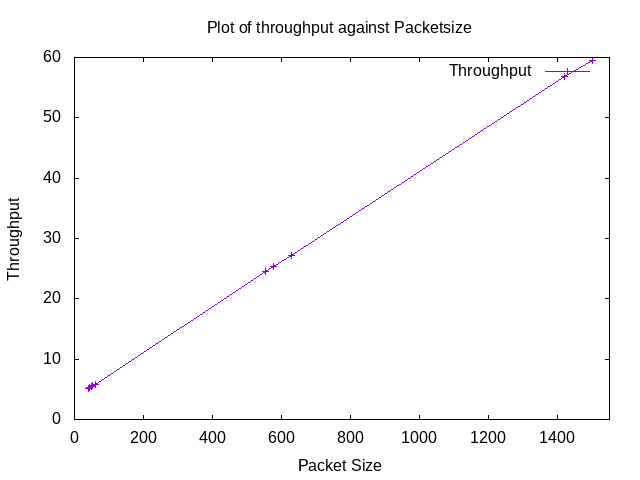
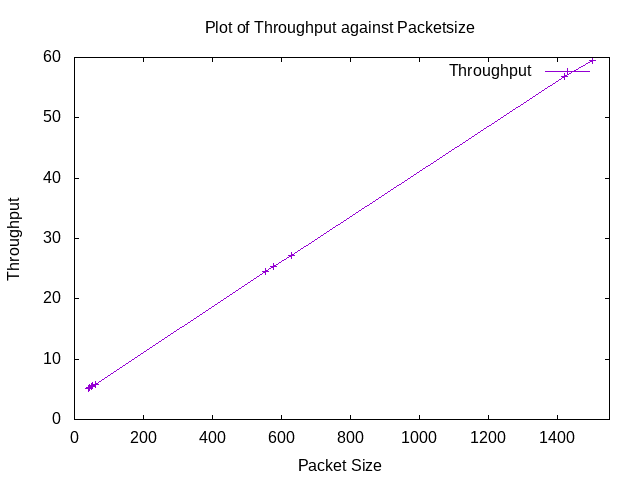
revised edition

Changed region(s): [[0.3125, 0.0312, 0.75, 0.0938]]

diff --git a/wireless.cc b/wireless.cc
@@ -18,37 +18,37 @@ int main (int argc, char *argv[])
   std :: string plotTitle1               = "Plot of TCP Fairness Index against Packet Size";
   std :: string dataTitle1               = "Index Of Fairness ";
 
-  //setting up fairness plot
-  std :: string fairnessFile            = "WirelessFairnessPlot";
-  std :: string fairnessGraphics        = FairnessFile + ".png";
-  std :: string fairnessPlot            = FairnessFile + ".plt";
+  //setting up Fairness plot
+  std :: string FairnessFile            = "WirelessFairnessPlot";
+  std :: string FairnessGraphics        = FairnessFile + ".png";
+  std :: string FairnessPlot            = FairnessFile + ".plt";
     //graphics file is created by plot file when we run Gnuplotto create the final plot in a PNG file.
-  Gnuplot plot1 (fairnessGraphics);
+  Gnuplot plot1 (FairnessGraphics);
   plot1.SetTitle (plotTitle1); 
   plot1.SetTerminal ("png");
   plot1.SetLegend ("Packet Size", "Fairness Index");
   plot1.AppendExtra ("set xrange [0:1550]");
   //setting dataset, title of plot, legend and style of plotting.
-  Gnuplot2dDataset fairnessDataset;
-  fairnessDataset.SetTitle (dataTitle1);
-  fairnessDataset.SetStyle (Gnuplot2dDataset::LINES_POINTS);
+  Gnuplot2dDataset FairnessDataset;
+  FairnessDataset.SetTitle (dataTitle1);
+  FairnessDataset.SetStyle (Gnuplot2dDataset::LINES_POINTS);
    //setting up the dataset
-  std :: string plotTitle2               = "Plot of throughput against Packetsize";
+  std :: string plotTitle2               = "Plot of Throughput against Packetsize";
   std :: string dataTitle2               = "Throughput";
 
   //setting up Throughput Plot 
-  std :: string throughputFile           = "WirelessThroughputPlot";
-  std :: string throughputGraphics       = ThroughputFile + ".png";
-  std :: string throughputPlot           = ThroughputFile + ".plt";
-  Gnuplot plot2 (throughputGraphics);
+  std :: string ThroughputFile           = "WirelessThroughputPlot";
+  std :: string ThroughputGraphics       = ThroughputFile + ".png";
+  std :: string ThroughputPlot           = ThroughputFile + ".plt";
+  Gnuplot plot2 (ThroughputGraphics);
   plot2.SetTitle (plotTitle2);
   plot2.SetTerminal ("png");
   plot2.SetLegend ("Packet Size", "Throughput");
   plot2.AppendExtra ("set xrange [0:1550]");
     //setting dataset, title of plot, legend and style of plotting. same as the previous graph.
-  Gnuplot2dDataset throughputDataset;
-  throughputDataset.SetTitle (dataTitle2);
-  throughputDataset.SetStyle (Gnuplot2dDataset::LINES_POINTS);
+  Gnuplot2dDataset ThroughputDataset;
+  ThroughputDataset.SetTitle (dataTitle2);
+  ThroughputDataset.SetStyle (Gnuplot2dDataset::LINES_POINTS);
   //------------------plotting part initialisatoin done--------------
  
   uint32_t packets[10] = {40,44,48,52,60,552,576,628,1420,1500};
@@ -185,7 +185,7 @@ int main (int argc, char *argv[])
     Simulator::Stop (Seconds(11.0));
     Simulator::Run ();
 
-    //Fairness Index and throughput calculation
+    //Fairness Index and Throughput calculation
     double Sumx = 0, SumSqx = 0;
     monitor->CheckForLostPackets ();
     Ptr<Ipv4FlowClassifier> classifier = DynamicCast<Ipv4FlowClassifier> (flowmonitor.GetClassifier ());
@@ -199,24 +199,24 @@ int main (int argc, char *argv[])
       std::cout << "  Received Bytes\t:" << i->second.rxBytes << " bytes\n";
       double time = i->second.timeLastRxPacket.GetSeconds() - i->second.timeFirstTxPacket.GetSeconds();
       std::cout << "  Transmission Time\t:" << time << "s\n";
-      double throughput = ((i->second.rxBytes * 8.0) / time)/1024;
-      std::cout << "  Throughput observed\t:" << throughput  << " Kbps\n\n";
+      double Throughput = ((i->second.rxBytes * 8.0) / time)/1024;
+      std::cout << "  Throughput observed\t:" << Throughput  << " Kbps\n\n";
 
-      Sumx += throughput;
-      SumSqx += throughput * throughput ;
+      Sumx += Throughput;
+      SumSqx += Throughput * Throughput ;
     }
 
     double FairnessIndex = (Sumx * Sumx)/ (2 * SumSqx) ;
     std :: cout << "Average Throughput: \t" << Sumx/2 << " Kbps" << std::endl;
     std :: cout << "FairnessIndex: \t" << FairnessIndex << std :: endl << std::endl;
     std :: cout << "***********************************************************" << std::endl << std::endl;
-    fairnessDataset.Add (packets[j], FairnessIndex);
-    throughputDataset.Add(packets[j],Sumx/2);
+    FairnessDataset.Add (packets[j], FairnessIndex);
+    ThroughputDataset.Add(packets[j],Sumx/2);
     Simulator::Destroy ();
     NS_LOG_INFO ("Complete");
   }
 
-  //plotting  fairness 
+  //plotting  Fairness 
   // Add the dataset to the plot.
   plot1.AddDataset (FairnessDataset);
   // Open the plot file.
@@ -226,7 +226,7 @@ int main (int argc, char *argv[])
   // Close the plot file.
   plotFile1.close ();
 
-  //plotting throughput
+  //plotting Throughput
   // Add the dataset to the plot.
   plot2.AddDataset (ThroughputDataset);
   // Open the plot file.

diff --git a/wired.cc b/wired.cc
@@ -113,18 +113,17 @@ int main(int argc, char *argv[]) {
 	
 	std :: string plotTitle1               = "Fairness Index vs Packet Size";
   	std :: string dataTitle1               = "Fairness Index Data";
-
-  //.........Fairness Plot Setup ........//
+ //setting up Fairness plot
   	std :: string fairnessFile            = "wiredTCPfairness";
 	std :: string fairnessGraphics        = fairnessFile + ".png";
 	std :: string fairnessPlot            = fairnessFile + ".plt";
 
 	Gnuplot plot1 (fairnessGraphics);
 	plot1.SetTitle (plotTitle1);
-	// Make the graphics file, which the plot file will create when it is used with Gnuplot, be a PNG file.
+ //graphics file is created by plot file when we run Gnuplotto create the final plot in a PNG file.
 	plot1.SetTerminal ("png");
 	plot1.SetLegend ("Packet Size", "Fairness Index");
-	plot1.AppendExtra ("set xrange [40:1500]");
+	plot1.AppendExtra ("set xrange [0:1550]");
 	// Instantiate the dataset, set its title, and make the points be plotted along with connecting lines.
 	Gnuplot2dDataset fairnessDataset;
 	fairnessDataset.SetTitle (dataTitle1);
@@ -142,7 +141,7 @@ int main(int argc, char *argv[]) {
 	// Make the graphics file, which the plot file will create when it is used with Gnuplot, be a PNG file.
 	plot2.SetTerminal ("png");
 	plot2.SetLegend ("Packet Size", "Throughput");
-	plot2.AppendExtra ("set xrange [40:1500]");
+	plot2.AppendExtra ("set xrange [0:1550]");
 	// Instantiate the dataset, set its title, and make the points be plotted along with connecting lines.
 	Gnuplot2dDataset throughputDataset;
 	throughputDataset.SetTitle (dataTitle2);
@@ -264,12 +263,12 @@ int main(int argc, char *argv[]) {
 	      	Ipv4FlowClassifier::FiveTuple t = classifier->FindFlow (i->first);
 
 	      	std::cout << "Flow " << i->first  << " (" << t.sourceAddress << " -> " << t.destinationAddress << ") Source Port :" << t.sourcePort << " Destination Port :" << t.destinationPort << "\n";
-	      	std::cout << "  Tx Bytes\t\t:" << i->second.txBytes << " bytes \n";
-	      	std::cout << "  Rx Bytes\t\t:" << i->second.rxBytes << " bytes\n";
+	      	std::cout << "  Transmitted Bytes\t:" << i->second.txBytes << " bytes \n";
+	      	std::cout << "  Received Bytes\t:" << i->second.rxBytes << " bytes\n";
 	      	double time = i->second.timeLastRxPacket.GetSeconds() - i->second.timeFirstTxPacket.GetSeconds();
 	      	std::cout << "  Transmission Time\t:" << time << "s\n";
 	      	double throughput = ((i->second.rxBytes * 8.0) / time)/1024;
-	      	std::cout << "  Throughput\t\t:" << throughput  << " Kbps\n\n";
+	      	std::cout << "  Throughput observed\t:" << throughput  << " Kbps\n\n";
 
 	      	Sumx += throughput;
 	      	SumSqx += throughput * throughput ;
@@ -279,12 +278,12 @@ int main(int argc, char *argv[]) {
     	std :: cout << "Average Throughput: " << Sumx/numberofflows << " Kbps" << std::endl;
     	std :: cout << "FairnessIndex:	" << FairnessIndex << std :: endl << std::endl;
     	fairnessDataset.Add (packetSize, FairnessIndex);
-    	std :: cout << "+++++++++++++++++++++++++++++++++++++++++++++++++++++++++++" << std::endl<< std::endl;
+    	std :: cout << "*****************************************************************" << std::endl<< std::endl;
     	throughputDataset.Add(packetSize,Sumx/numberofflows);
     	Simulator::Destroy ();
-    	NS_LOG_INFO ("Done.");
+    	NS_LOG_INFO ("Complete");
 	}
-
+	//plotting fairness
 	plot1.AddDataset (fairnessDataset);
 	// Open the plot file.
 	std :: ofstream plotFile1 (fairnessPlot.c_str());
